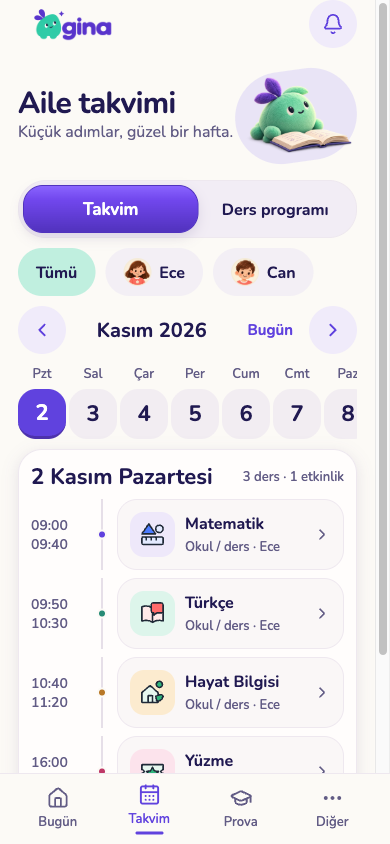
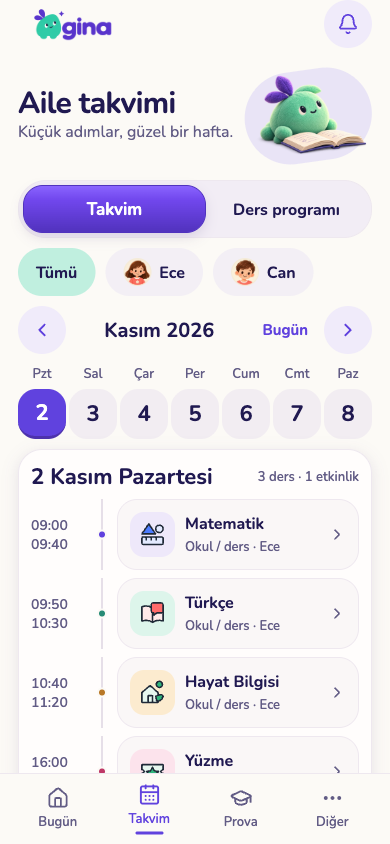
polish: keep full calendar width on small screens

diff --git a/apps/mobile/src/components/planner/timetable-editor.tsx b/apps/mobile/src/components/planner/timetable-editor.tsx
@@ -291,7 +291,8 @@ function LoadedEditor({
       >
         <ScrollView
           keyboardShouldPersistTaps="handled"
-          contentContainerStyle={u.content}
+          showsVerticalScrollIndicator={false}
+        contentContainerStyle={u.content}
         >
           <View style={u.topbar}>
             <IconButton

diff --git a/apps/mobile/src/components/planner/calendar-screen.tsx b/apps/mobile/src/components/planner/calendar-screen.tsx
@@ -280,6 +280,7 @@ export function PlannerCalendar({
     <SafeAreaView style={u.root}>
       <ScrollView
         keyboardShouldPersistTaps="handled"
+        showsVerticalScrollIndicator={false}
         contentContainerStyle={u.content}
       >
         <View style={u.topbar}>
